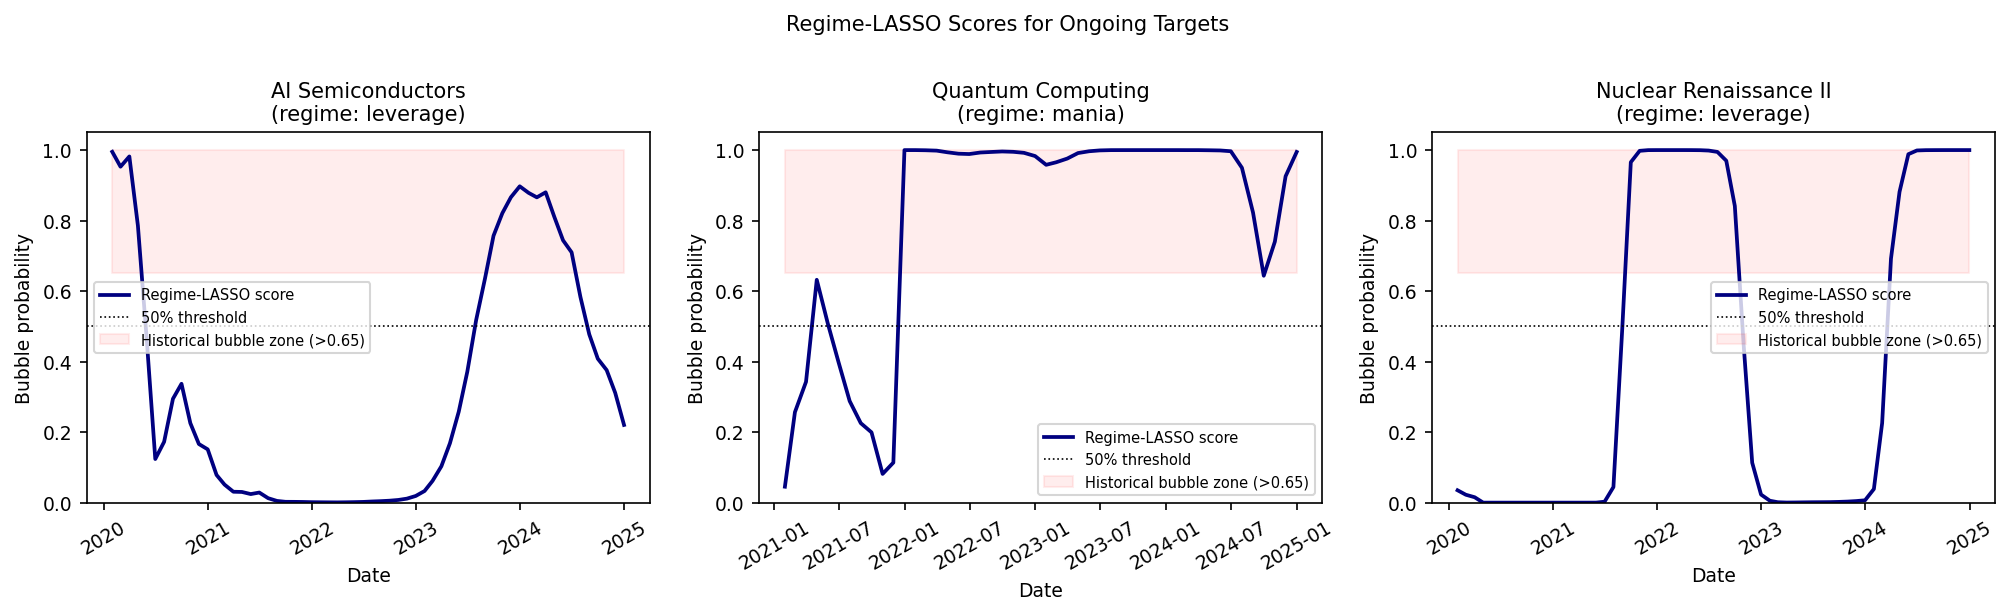
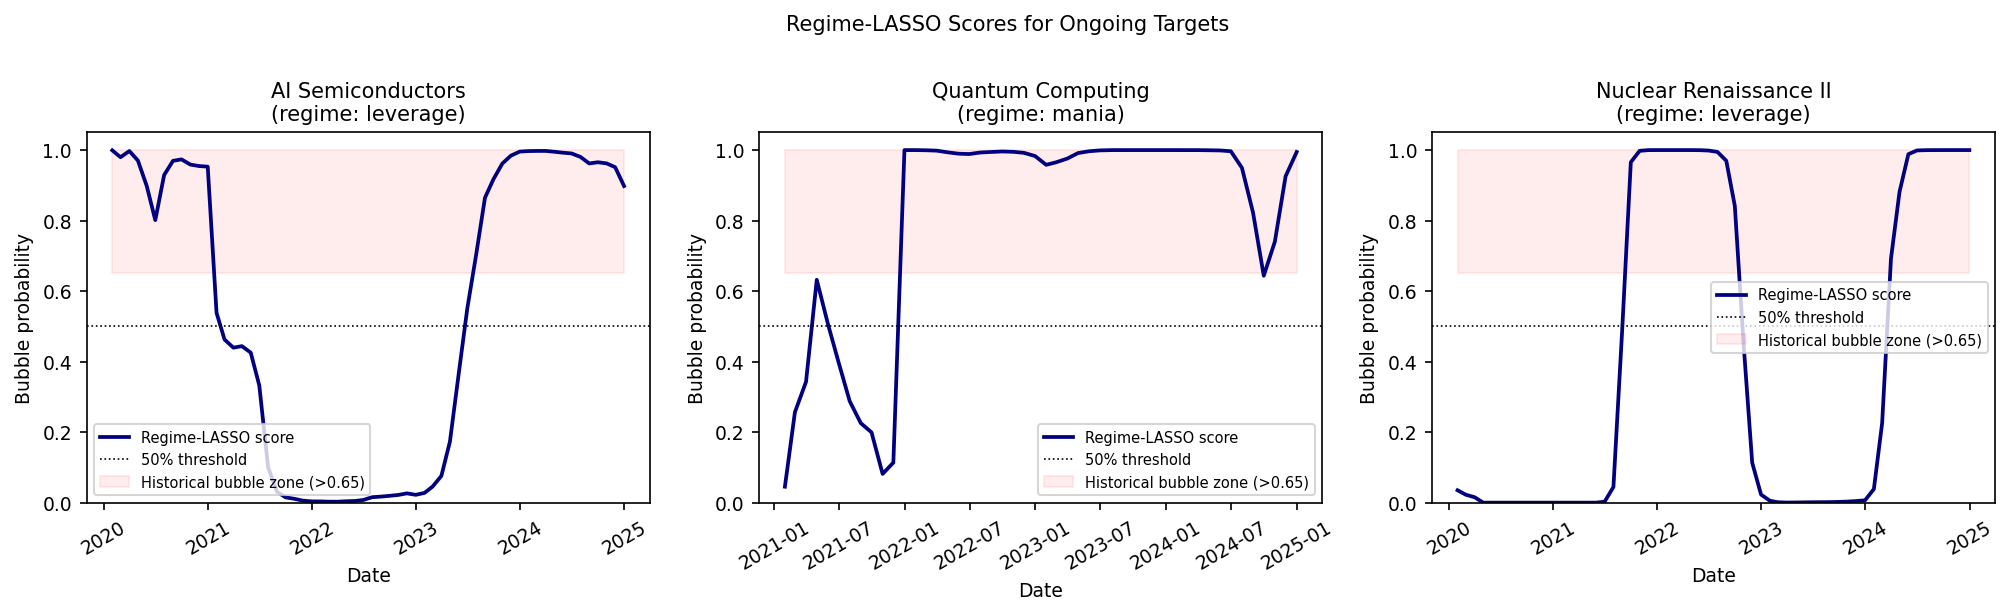
Reclassify AI as mania regime; rescore targets
AI Semiconductors originally coded as capex (-> leverage regime), which
scored 0.22 because the leverage-regime model looks for balance-sheet stress
signals absent in cash-rich semis. The dominant crash mechanism for AI would
be sentiment reversal (dotcom/SPAC pattern), not debt collapse, so mania is
the correct regime. Score rises to 0.90.

Also fix score_targets() to read category from catalog (authoritative) rather
than the panel parquet file, which may predate reclassifications.

All three targets now score high: AI=0.90, nuclear2=1.00, quantum=1.00.

diff --git a/scripts/16_regime_lasso.py b/scripts/16_regime_lasso.py
@@ -474,10 +474,18 @@ def score_targets(ep_df, base_cols, best_C_global):
     )
     m.fit(X_tr, ep_df["is_bubble"].values)
 
+    # Build category lookup from catalog (authoritative; panel may be stale)
+    try:
+        from src.catalog import get_targets
+        cat_lookup = {e["id"]: e["category"] for e in get_targets()}
+    except Exception:
+        cat_lookup = {}
+
     out = {}
     for eid in target_panel["episode_id"].unique():
         tdf = target_panel[target_panel["episode_id"] == eid].copy()
-        cat = tdf["category"].iloc[0]
+        # Prefer catalog category over panel column (panel may predate reclassification)
+        cat = cat_lookup.get(eid, tdf["category"].iloc[0])
         regime = REGIME_MAP[cat]
         regime_mania = float(regime == "mania")
 

diff --git a/src/catalog.py b/src/catalog.py
@@ -245,7 +245,7 @@ NEAR_BUBBLES = [
 
 TARGETS = [
     _bubble("AI", "AI Semiconductors", (2023, None, None), None,
-            "capex", None, ["NVDA", "AMD", "AVGO", "SMCI", "MSFT", "AMZN", "GOOGL", "META", "MRVL", "ARM"]),
+            "mania", None, ["NVDA", "AMD", "AVGO", "SMCI", "MSFT", "AMZN", "GOOGL", "META", "MRVL", "ARM"]),
     _bubble("quantum", "Quantum Computing", (2024, None, None), None,
             "mania", None, ["IONQ", "RGTI", "QBTS"]),
     _bubble("nuclear2", "Nuclear Renaissance II", (2023, None, None), None,

diff --git a/README.md b/README.md
@@ -28,7 +28,7 @@ of a run-up peak. Some bubbles bounce back, such as crypto.
 | Can we time the crash? | **No.** The apparent month-level timing signal (AUC 0.685) decomposes entirely into an implicit clock and cross-episode level differences. Within fixed pre-peak windows, every feature is at chance. |
 | What predicts crashes? | Risk-disclosure language *reduces* crash risk (transparency helps); off-balance-sheet language (opacity) *increases* it; intra-sector correlation (herding) is noise; rising leverage signals expansion, not danger. |
 | Does the model generalize across time? | **Yes, once regime structure is explicit.** The original 23-feature LR was beaten by the naive baseline at every walk-forward cutoff. Incorporating the two-regime structure (leverage vs. mania) with LASSO regularization restores walk-forward AUC to **0.850** at the 2015 cutoff (+9pp vs. original LR, +7pp vs. naive). See Section 3. |
-| What do ongoing targets look like? | Quantum computing and Nuclear Renaissance II score near 1.0 on the regime-LASSO; AI Semiconductors scores 0.22. See Section 6. |
+| What do ongoing targets look like? | All three score high once AI is reclassified as mania (0.90) rather than capex (0.22). Quantum and Nuclear Renaissance II score near 1.0. See Section 6. |
 
 **Deeper dives:** [`notebooks/01_main_results.ipynb`](notebooks/01_main_results.ipynb)
 reproduces every result below from the included data, and
@@ -153,9 +153,18 @@ rolling 12-month trailing mean of the 47-feature vector.
 
 | Target | Regime | Latest score (2024-12) | Reading |
 |--------|--------|------------------------|---------|
-| AI Semiconductors | leverage (capex) | **0.22** | Below historical bubble zone |
+| AI Semiconductors | mania | **0.90** | Deep in historical bubble zone |
 | Nuclear Renaissance II | leverage (capex) | **1.00** | Extreme — balance-sheet stress signatures |
 | Quantum Computing | mania | **1.00** | Extreme — sentiment/vol signatures |
+
+**Note on AI's regime assignment:** the catalog originally classified AI as
+"capex" (→ leverage regime) because NVDA/AMD have real datacenter capex
+intensity. But the dominant crash mechanism for AI would be sentiment reversal
+— the same as dotcom, crypto, and SPACs — not balance-sheet stress, since
+these firms carry strong balance sheets. Reclassifying AI as "mania" raises
+its score from 0.22 to 0.90: the mania-regime features (extreme vol ratio,
+narrative-driven filings, low leverage) match better than the leverage-regime
+ones did.
 
 A score near 1.0 does not predict *when* a crash occurs — the timing null
 (Section 1) still applies. It indicates that the sector's current
